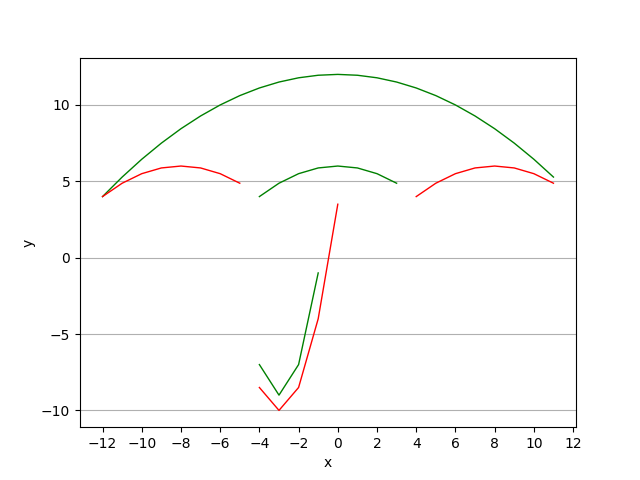
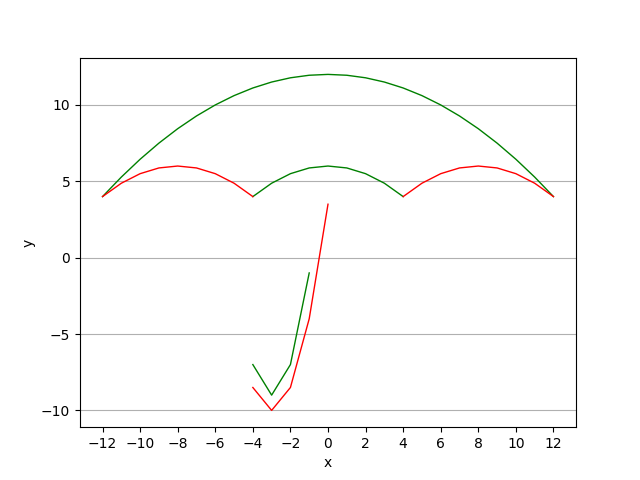
Новый рисунки

diff --git a/GrafikiDiagramma/GrafikiDiagramma.py b/GrafikiDiagramma/GrafikiDiagramma.py
@@ -61,7 +61,7 @@ plt.plot(x15,y15 ,'-r',linewidth=1,label="Парабола")
 
 plt.savefig("my_image.png") 
 plt.show()
-
+#----------------------------------------------------------------------------------------
 
 data = [
         ["Erinevate IKT turvameetodite kasutamine", 86],
@@ -81,7 +81,7 @@ labels = [x[0] for x in data]
 plt.pie(values,labels=labels,autopct="%.1f%%", radius=1.5)
 plt.show()
 
-
+#--------------------------------------------------------------------------------------------
 
 
 x20 = np.arange(0, 9, 1)
@@ -128,17 +128,19 @@ plt.plot(x29,y29 ,'-b',linewidth=1,label="Парабола")
 plt.savefig("my_image.png") 
 plt.show()
 
-x30 = np.arange(-12, 12, 1)
+#----------------------------------------------------------------------
+
+x30 = np.arange(-12, 13, 1)
 y30 = -1/18*x30**2+12
-x31 = np.arange(-4, 4 ,1)
+x31 = np.arange(-4, 5 ,1)
 y31 = -1/8*x31**2+6
-x32 = np.arange(-12, -4, 1)
+x32 = np.arange(-12, -3, 1)
 y32 = -1/8*(x32+8)**2+6
-x33 = np.arange(4, 12, 1)
+x33 = np.arange(4, 13, 1)
 y33 = -1/8*(x33-8)**2+6
-x34 = np.arange(-4, -0.3, 1)
+x34 = np.arange(-4, -0.1, 1)
 y34 = 2*(x34+3)**2-9
-x35 = np.arange(-4, 0.2, 1)
+x35 = np.arange(-4, 1, 1)
 y35 = 1.5*(x35+3)**2-10
 
 
@@ -158,3 +160,4 @@ plt.plot(x35,y35 ,'-r',linewidth=1,label="Парабола")
 
 plt.savefig("my_image.png") 
 plt.show()
+
